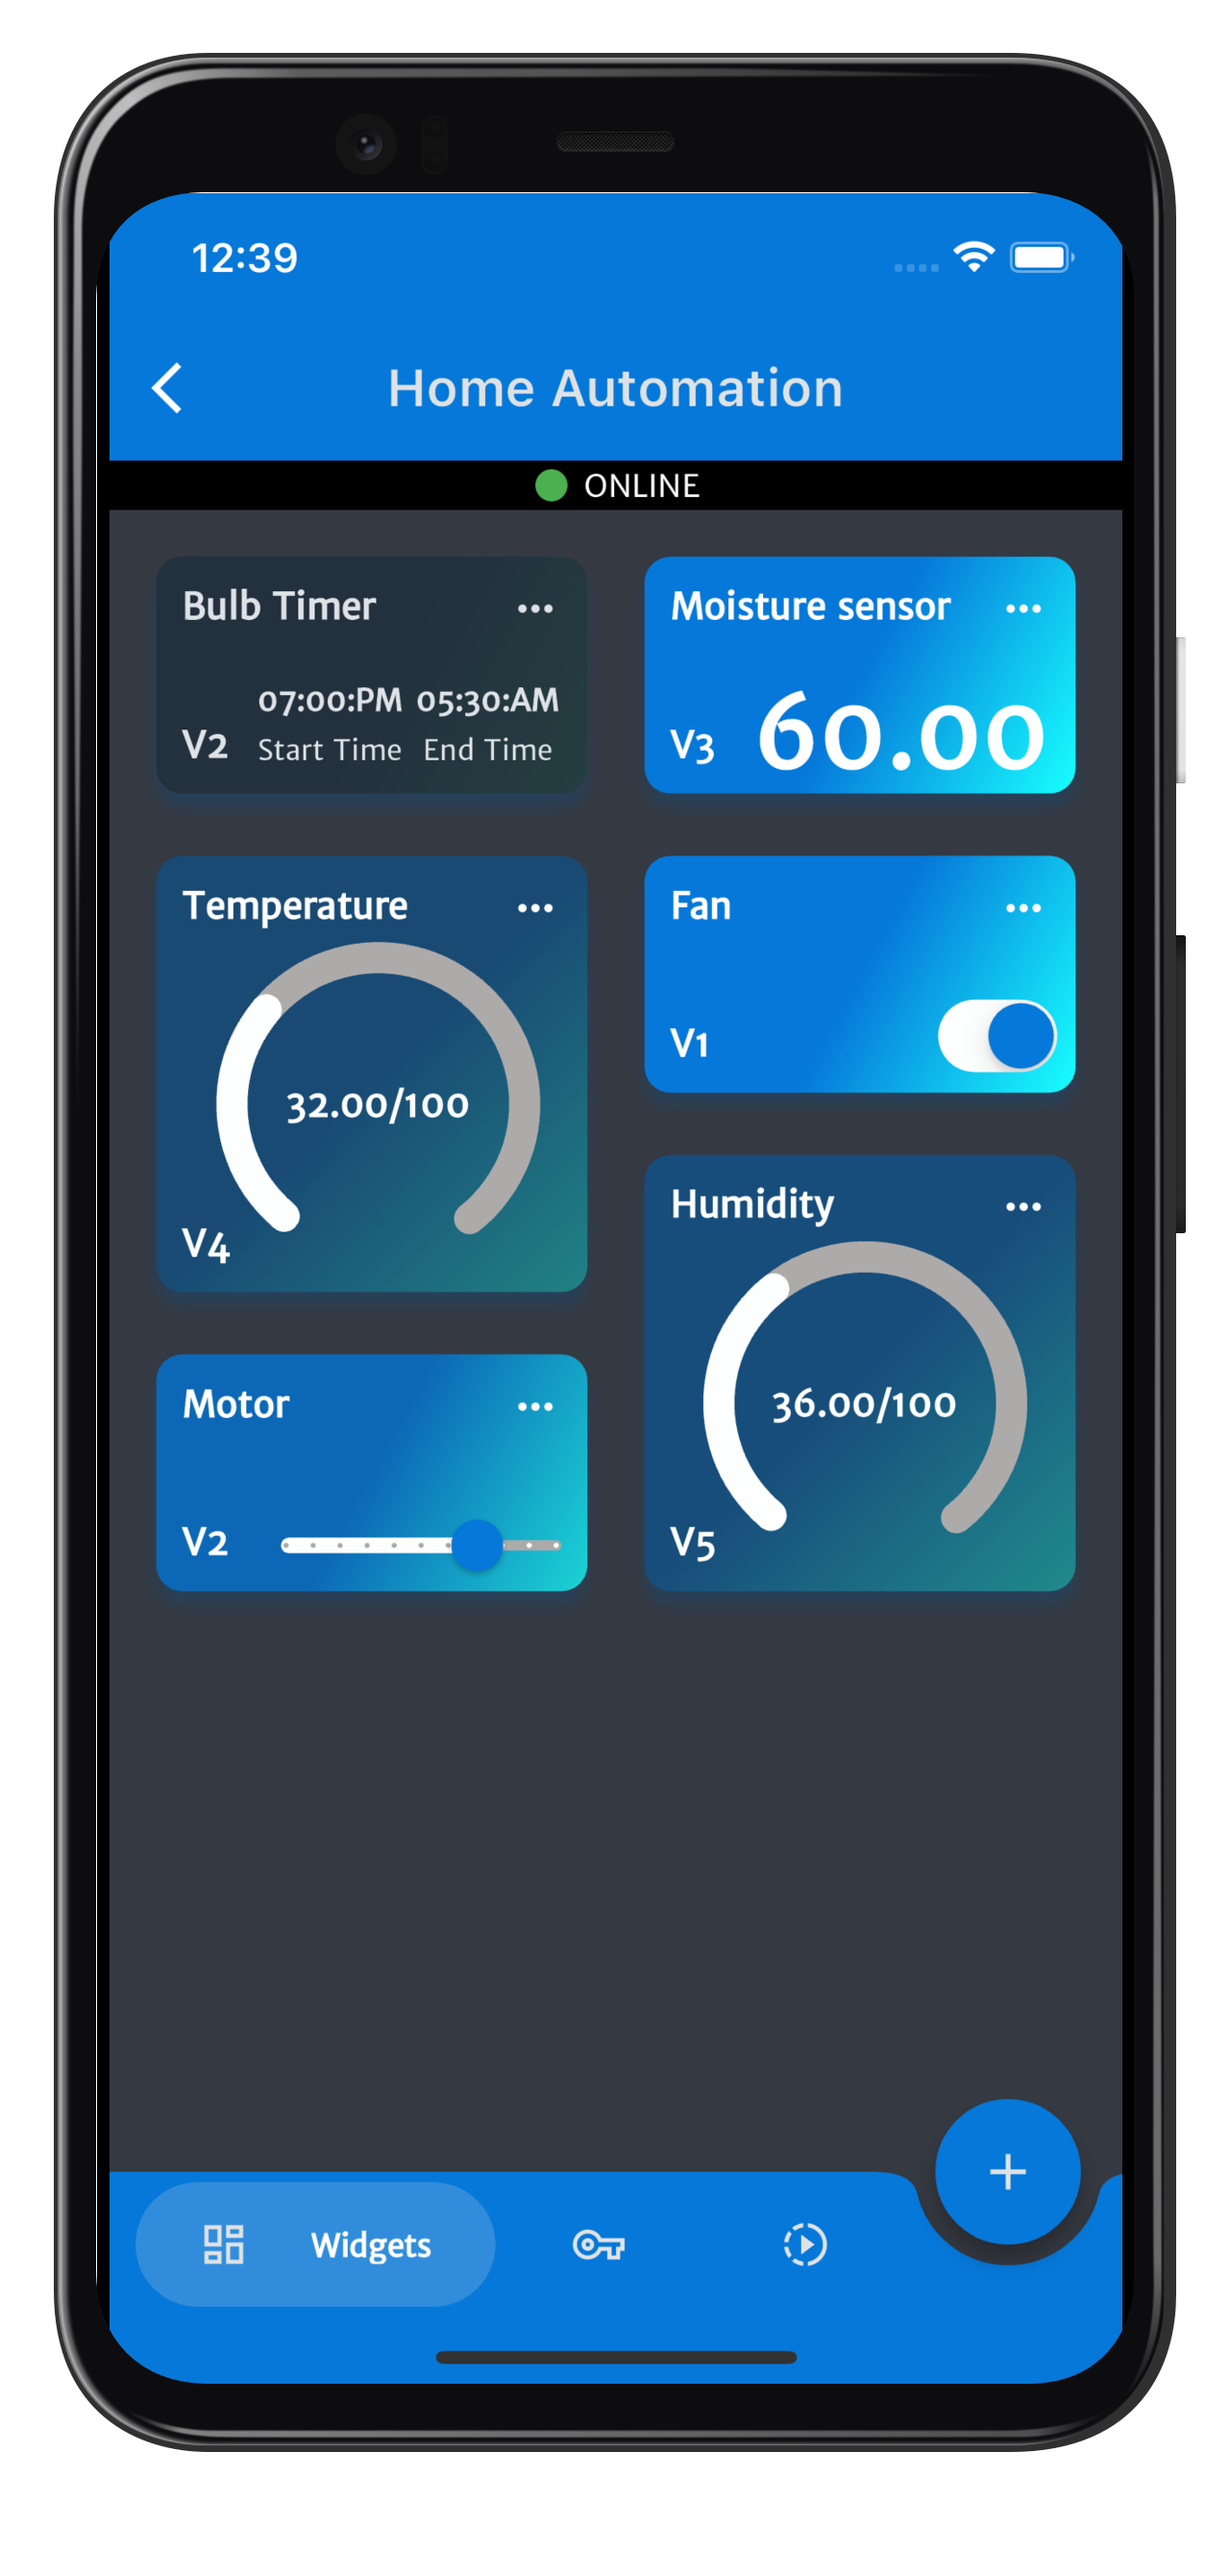
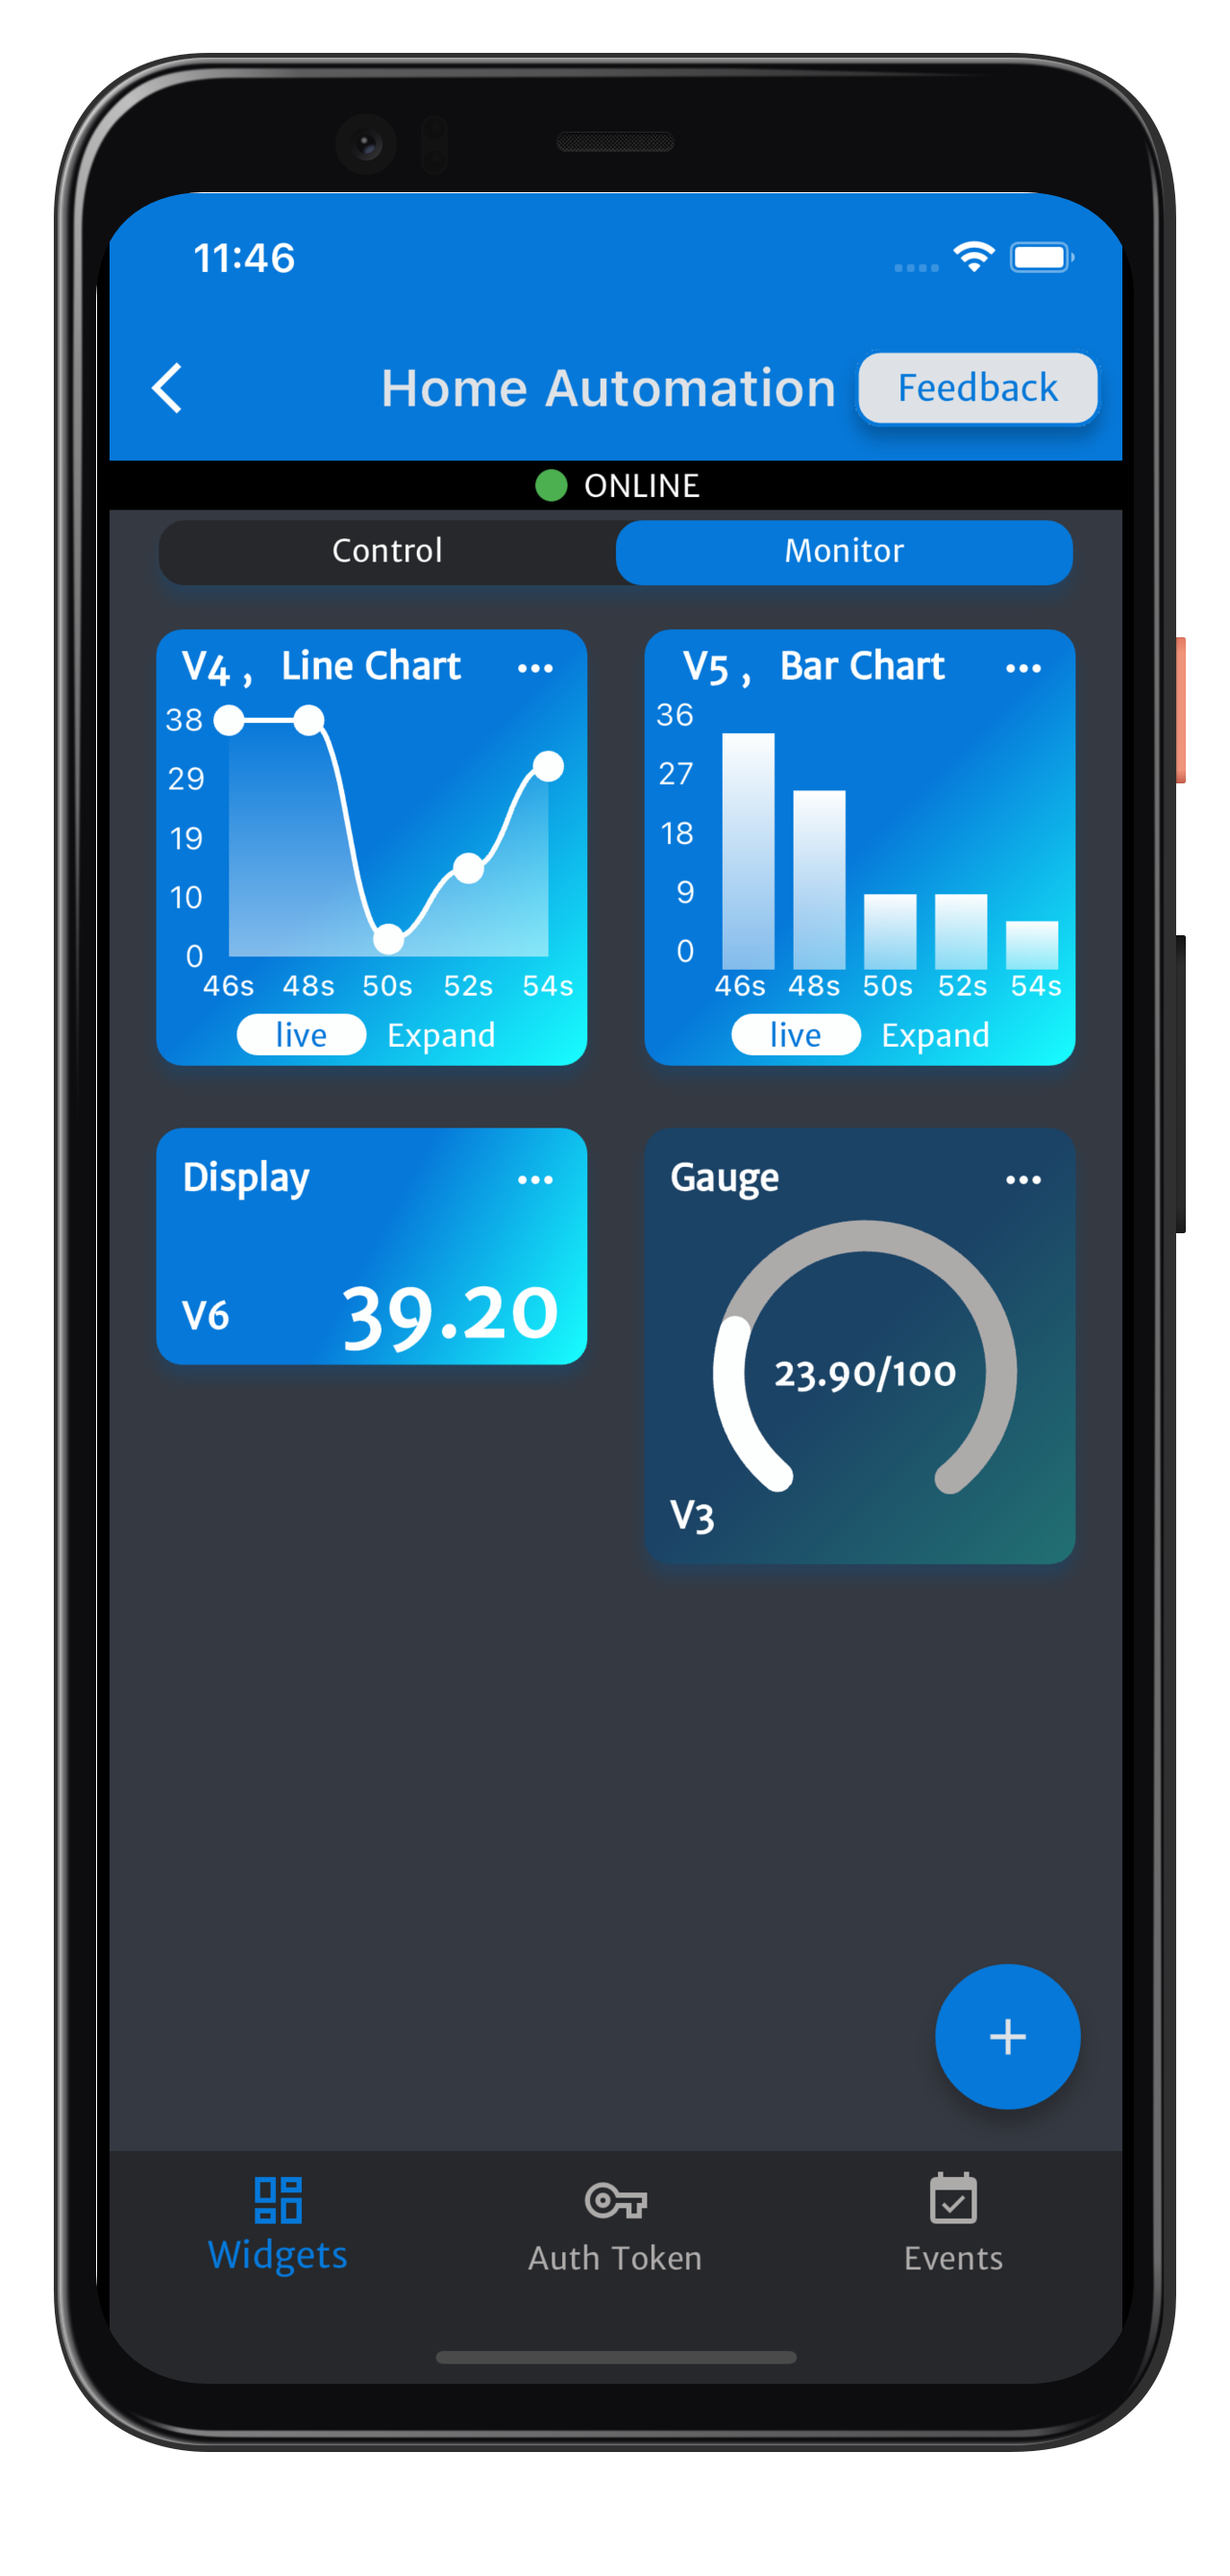
Added new feature Event , Chart

diff --git a/src/ThingsLinker.cpp b/src/ThingsLinker.cpp
@@ -84,7 +84,7 @@ void ThingsLinker::connectToMQTT(const char *authToken)
 #elif defined(ESP8266)
     mqttCllent = String(authToken) + "_ESP6266_" + String(config.getESP8266ChipId());
 #endif
-    //Serial.println(mqttCllent);
+    // Serial.println(mqttCllent);
     statusTopic = String(config.TOPIC) + String(authToken) + "/status";
     if (client.connect(mqttCllent.c_str(), statusTopic.c_str(), 2, true, "OFFLINE"))
     {
@@ -134,8 +134,8 @@ void ThingsLinker::loop()
       String secondString = myPinStrings[i];
       String dynamicTopic = String(config.TOPIC) + String(authToken) + "/" + secondString;
       client.subscribe(dynamicTopic.c_str());
-      //Serial.println(secondString);
-      //Serial.println("Subscribed to topic: " + dynamicTopic);
+      // Serial.println(secondString);
+      // Serial.println("Subscribed to topic: " + dynamicTopic);
     }
   }
   client.loop();
@@ -156,8 +156,8 @@ void ThingsLinker::callbackMqtt(char *topic, byte *payload, unsigned int length)
     message += (char)payload[i];
   }
   mqttEncodedPayload = message;
-  //Serial.println(statusTopic);
-  //Serial.println(topic);
+  // Serial.println(statusTopic);
+  // Serial.println(topic);
   if (statusTopic == String(topic))
   {
     Serial.println("Status string: " + mqttEncodedPayload);
@@ -165,9 +165,9 @@ void ThingsLinker::callbackMqtt(char *topic, byte *payload, unsigned int length)
   else
   {
     // String encoded = config.base64_encode(mqttEncodedPayload);
-    //Serial.println("Encoded string: " + mqttEncodedPayload);
+    // Serial.println("Encoded string: " + mqttEncodedPayload);
     String decoded = config.base64Decode(mqttEncodedPayload);
-    //Serial.println("Decoded string: " + decoded);
+    // Serial.println("Decoded string: " + decoded);
 
     DynamicJsonDocument doc(256);
     DeserializationError error = deserializeJson(doc, decoded);
@@ -179,7 +179,7 @@ void ThingsLinker::callbackMqtt(char *topic, byte *payload, unsigned int length)
     }
     String newPin = doc[config.devicePin];
     String s = doc[config.deviceStatus];
-    //Serial.println(s);
+    // Serial.println(s);
     int deviceStatus = doc[config.deviceStatus];
     updateMap(newPin, deviceStatus);
   }
@@ -329,45 +329,49 @@ int ThingsLinker::getTimerAsInt(const String &pin)
 
 void ThingsLinker::setGauge(const String &pin, float sensorValue)
 {
-  ThingsLinker::publishMQTTMessage(pin, sensorValue);
+  ThingsLinker::publishMQTTMessage(pin, sensorValue, 1);
 }
 
 void ThingsLinker::setDisplay(const String &pin, float sensorValue)
 {
-  ThingsLinker::publishMQTTMessage(pin, sensorValue);
+  ThingsLinker::publishMQTTMessage(pin, sensorValue, 1);
 }
 
-void ThingsLinker::publishMQTTMessage(const String &pin, float sensorValue)
+void ThingsLinker::setChart(const String &pin, float sensorValue)
+{
+  ThingsLinker::publishMQTTMessage(pin, sensorValue, 0);
+}
+
+void ThingsLinker::event(const String &eventCode)
+{
+  ThingsLinker::publishMQTTMessage(eventCode, 0, 2);
+}
+
+void ThingsLinker::publishMQTTMessage(const String &pin, float sensorValue, int deviceTypeData)
 {
   DynamicJsonDocument doc(1024);
-  doc[config.devicePin] = pin;
-  doc[config.deviceStatus] = sensorValue;
+  if (deviceTypeData == 2)
+  {
+    doc[config.eventCode] = pin;
+  }
+  else
+  {
+    doc[config.devicePin] = pin;
+    doc[config.deviceStatus] = sensorValue;
+  }
   String jsonString;
   serializeJson(doc, jsonString);
   String encoded = config.base64_encode(jsonString);
   // Serial.println("Encoded string: " + mqttEncodedPayload);
   String topic = String(config.TOPIC) + String(authToken) + "/" + pin;
-  client.publish(topic.c_str(), encoded.c_str(), true);
-#if defined(ESP8266)
+  if (deviceTypeData == 0)
+  {
+    topic = String(config.TOPIC) + String(config.charts) + String(authToken) + "/" + pin;
+  }
+  else if (deviceTypeData == 2) 
+  {
+    topic = String(config.TOPIC) + String(authToken) + String(config.event);
+  }
+  client.publish(topic.c_str(), encoded.c_str());
   delay(200);
-#elif defined(ESP32)
-  delay(200);
-#endif
-}
-
-void ThingsLinker::event(const String &eventCode)
-{
-  DynamicJsonDocument doc(1024);
-  doc[config.eventCode] = eventCode;
-  String jsonString;
-  serializeJson(doc, jsonString);
-  String encoded = config.base64_encode(jsonString);
-  Serial.println("Encoded string: " + mqttEncodedPayload);
-  String topic = String(config.TOPIC) + String(authToken) + "/event";
-  client.publish(topic.c_str(), encoded.c_str(), true);
-#if defined(ESP8266)
-  delay(200); 
-#elif defined(ESP32)
-  delay(200);
-#endif
 }

diff --git a/src/ThingsLinker.h b/src/ThingsLinker.h
@@ -42,7 +42,7 @@ public:
   void loop();
 
   int getDeviceStatus(const String &pin);
-  void publishMQTTMessage(const String &pin, float sensorValue);
+  void publishMQTTMessage(const String &pin, float sensorValue,int deviceTypeData);
 
   int getButtonAsInt(const String &pin);
 
@@ -55,6 +55,8 @@ public:
   void setGauge(const String &pin, float sensorValue);
 
   void setDisplay(const String &pin, float sensorValue);
+
+  void setChart(const String &pin, float sensorValue);
 
   static void updateMap(const String &pin, int sensorValue);
 

diff --git a/src/Config/Config.cpp b/src/Config/Config.cpp
@@ -26,6 +26,10 @@ const char *Config::deviceStatus = "deviceStatus";
 
 const char *Config::eventCode = "eventCode";
 
+const char *Config::event = "/event";
+
+const char *Config::charts = "charts/";
+
[1 lines of base64/hex data omitted]
 
 

diff --git a/src/Config/Config.h b/src/Config/Config.h
@@ -30,6 +30,8 @@ public:
     static const char *devicePin;
     static const char *deviceStatus;
     static const char *eventCode;
+    static const char *event;
+    static const char *charts;
     String getESP32ChipId();
     String getESP8266ChipId();
     String base64_encode(String str);

diff --git a/README.md b/README.md
@@ -104,20 +104,25 @@ void loop()
   thingsLinker.loop();
 }
 ```
-### To trigger an event in ThingsLinker, use the `thingsLinker.event("YourEventKey");` function in your C++ code by providing the specific "Event Key" obtained from the ThingsLinker app. 
+### The `event` function enables you to trigger notifications within the app. You can invoke this function within a conditional logic that checks for alteration, information, or warning conditions.
+  - `Paramer required`
+    - eventkey: An event key is generated by the app
 
 ```
 thingsLinker.event("YourEventKey");
 ```
+<br>
 
 # ThingsLinker Widgets Examples
-
+## ThingsLinker control widgets example
+<br>
 <h3>ThingsLinker offers various widgets that you can use to display or publish data. Here are some examples:</h3>
 <br>
 
-<h2>Get Button Value Example</h2>
+### Get Button Value Example
 <br>
-<p>This example shows how to retrieve an integer value from the ThingsLinker platform by calling the `getButtonAsInt` method of the `thingsLinker` object.</p>
+
+#### This example shows how to retrieve an integer value from the ThingsLinker platform by calling the `getButtonAsInt` method of the `thingsLinker` object.</p>
 
 ```cpp
 void callback()
@@ -138,43 +143,13 @@ void callback()
 }
 ```
 
-<h2>Set Display Example</h2>
+### Get Slider Value Example
 <br>
-<p>This example shows how to use the `setDisplay` function to publish data on the ThingsLinker platform.</p>
+
+#### This example shows how to retrieve an integer value from the ThingsLinker platform by calling the `getSliderAsInt` method of the `thingsLinker` object.
 
 ```cpp
-void loop()
-{
-  float y = random(1, 401) / 100.0;  /
-  Serial.print("Value: ");  
-  Serial.println(y);  
-
-  thingsLinker.setDisplay("V3", y); 
-}
-```
-
-<h2>Set Gauge Example</h2>
-<br>
-<p>This example shows how to use the `setGauge` function to publish data on the ThingsLinker platform for gauge display.</p>
-
-```cpp
-void loop()
-{
-  float y = random(1, 401) / 100.0;  
-  Serial.print("Value: ");  
-  Serial.println(y); 
-
-  thingsLinker.setGauge("V3", y);  platform for gauge display
-  delay(1000); 
-}
-```
-
-<h2>Get Slider Value Example</h2>
-<br>
-<p>This example shows how to retrieve an integer value from the ThingsLinker platform by calling the `getSliderAsInt` method of the `thingsLinker` object.</p>
-
-```cpp
-void loop()
+void callback()
 {
   int sliderValue = thingsLinker.getSliderAsInt("V0");
   Serial.print("Get getSliderAsInt: "); 
@@ -182,9 +157,10 @@ void loop()
 }
 ```
 
-<h2>Get Timer Value Example</h2>
+### Get Timer Value Example
 <br>
-<p>This example shows how to retrieve an integer value from the ThingsLinker platform by calling the `getTimerAsInt` method of the `thingsLinker` object.</p>
+
+#### This example shows how to retrieve an integer value from the ThingsLinker platform by calling the `getTimerAsInt` method of the `thingsLinker` object.
 
 ```cpp
 void callback()
@@ -202,8 +178,86 @@ void callback()
   }
 }
 ```
+### Set Event Example
+<br>
 
- 
+#### This example demonstrates the usage of the `event` function to trigger 'Notifications' or 'Alert' on the ThingsLinker app
+
+```cpp
+void loop()
+{
+  thingsLinker.loop();
+  float y = random(1, 401) / 100.0;  
+
+  
+  Serial.print("Value: ");  
+  Serial.println(y);  
+
+  if(y < 20){ 
+    // Event will trigger when y is less than 20
+    thingsLinker.event("YourEventKey"); 
+  }
+
+  thingsLinker.setDisplay("V3", y); 
+}
+```
+
+## ThingsLinker monitor widgets example
+<br>
+
+### Set Chart Example
+<br>
+
+#### This example shows how to use the `setChart` function to publish data on the ThingsLinker platform.
+
+```cpp
+void loop()
+{
+  thingsLinker.loop();
+  float y = random(1, 401) / 100.0;  
+
+  Serial.print("Value: ");  
+  Serial.println(y);  
+
+  thingsLinker.setChart("V3", y); 
+}
+```
+### Set Gauge Example
+<br>
+
+#### This example shows how to use the `setGauge` function to publish data on the ThingsLinker platform for gauge display.
+
+```cpp
+void loop()
+{
+  thingsLinker.loop();
+  float y = random(1, 401) / 100.0;  
+  Serial.print("Value: ");  
+  Serial.println(y); 
+
+  thingsLinker.setGauge("V3", y);  //platform for gauge display
+  delay(1000); 
+}
+```
+
+### Set Display Example
+<br>
+
+#### This example shows how to use the `setDisplay` function to publish data on the ThingsLinker platform.
+
+```cpp
+void loop()
+{
+  thingsLinker.loop();
+  float y = random(1, 401) / 100.0;  
+
+  
+  Serial.print("Value: ");  
+  Serial.println(y);  
+
+  thingsLinker.setDisplay("V3", y); 
+}
+```  
 # ThingsLinker Documentation
 
   ### ThingsLinker [Official Website](https://thingslinker.com)
